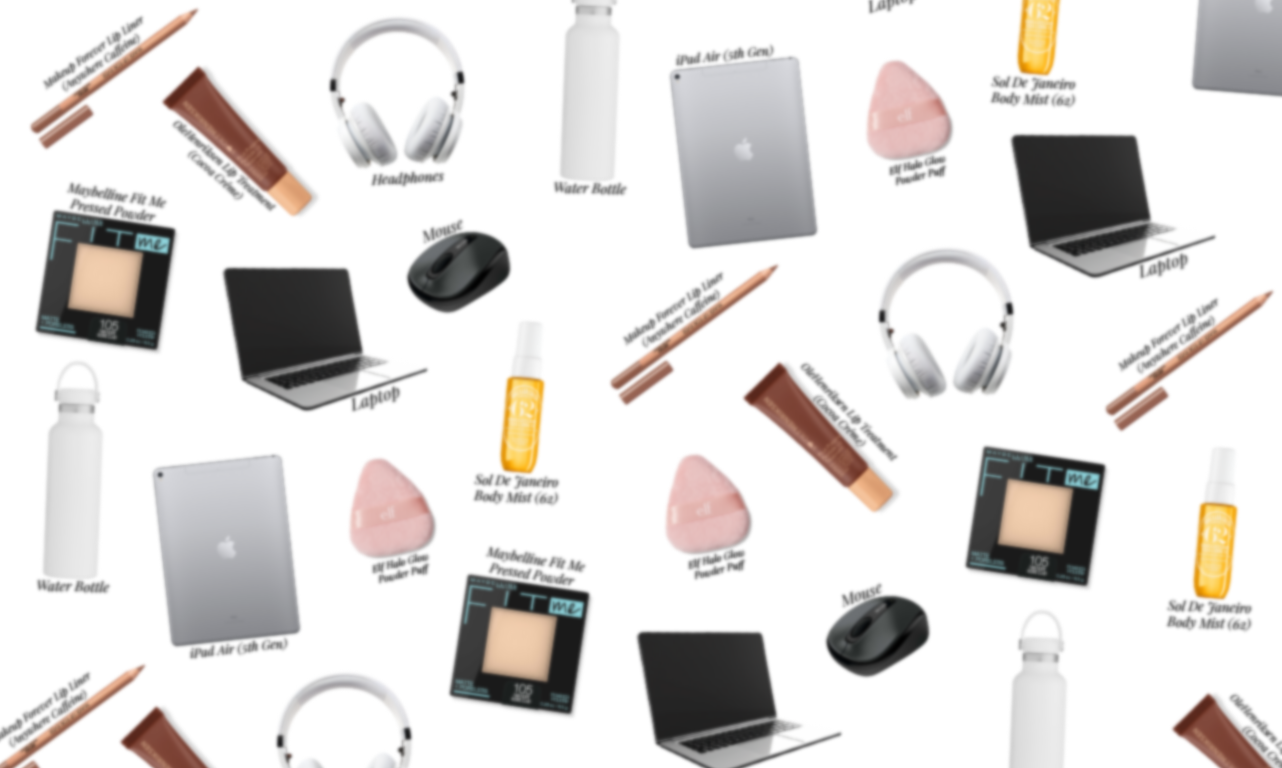
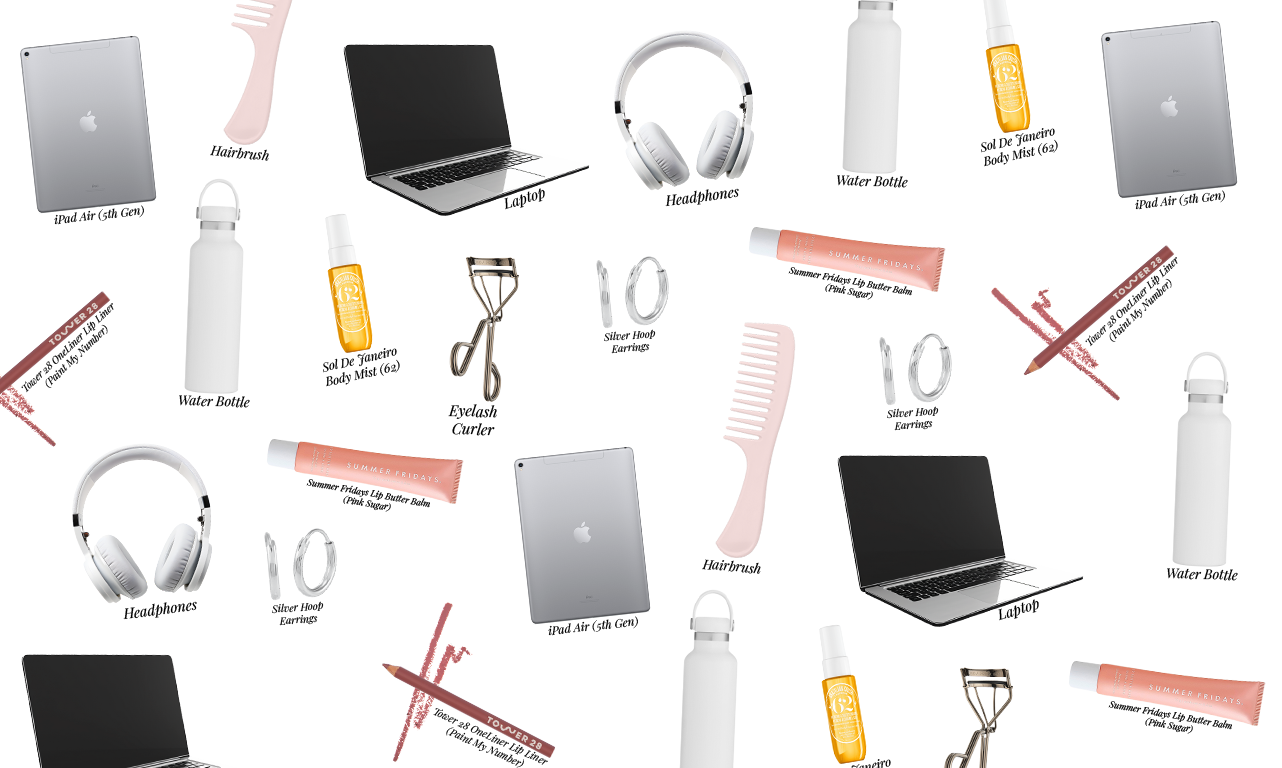
My 5th commit for The Feed

diff --git a/thefeed/thefeed.html b/thefeed/thefeed.html
@@ -13,7 +13,11 @@
     <link rel="stylesheet" href="css/thefeed.css">
 </head>
 
-<!-- change scriptive font or change capital letters to script and lowercase to normal; change the headers; make the gaps even -->
+<!-- make the gaps even and the left box in porportion to the right -->
+<!-- Background w/ different items -->
+<!-- Grey gets darker in the box -->
+<!-- Switch The Feed & Love Adrienne -->
+<!-- fix animations -->
 <body>
     <img class="background-image" src="img/background2.png" alt="Background Image">
     <div class ="TheFeed">

diff --git a/index.html b/index.html
@@ -11,6 +11,8 @@
     <link rel ="stylesheet" href="css/index.css">
 </head>
 
+<!-- make the text smaller and bag bigger -->
+<!-- fix animations -->
 <body>
     <img class="background-img" src="img/background.png" alt="Background Image">
     
